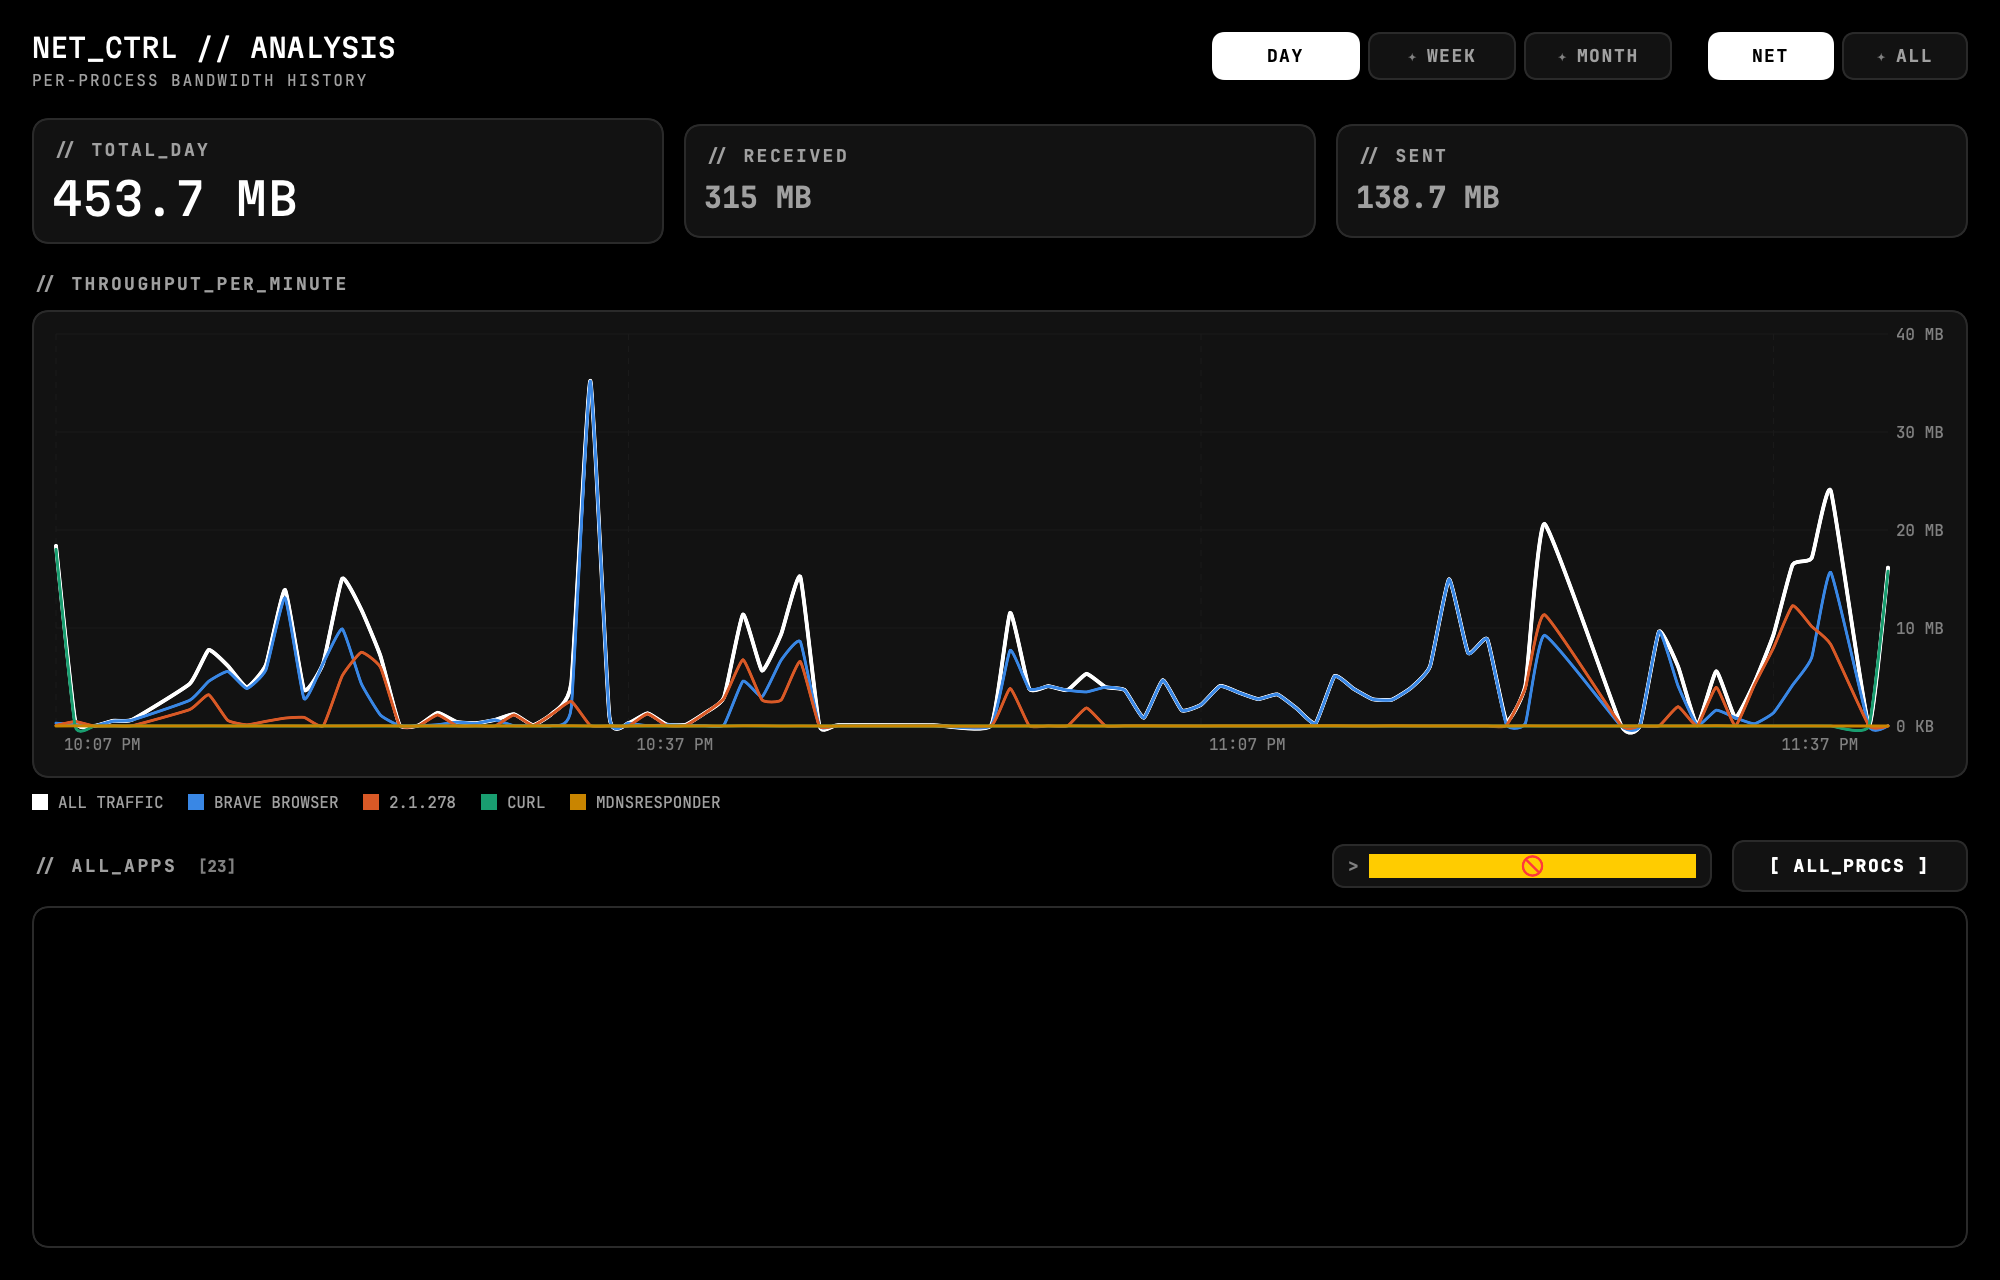
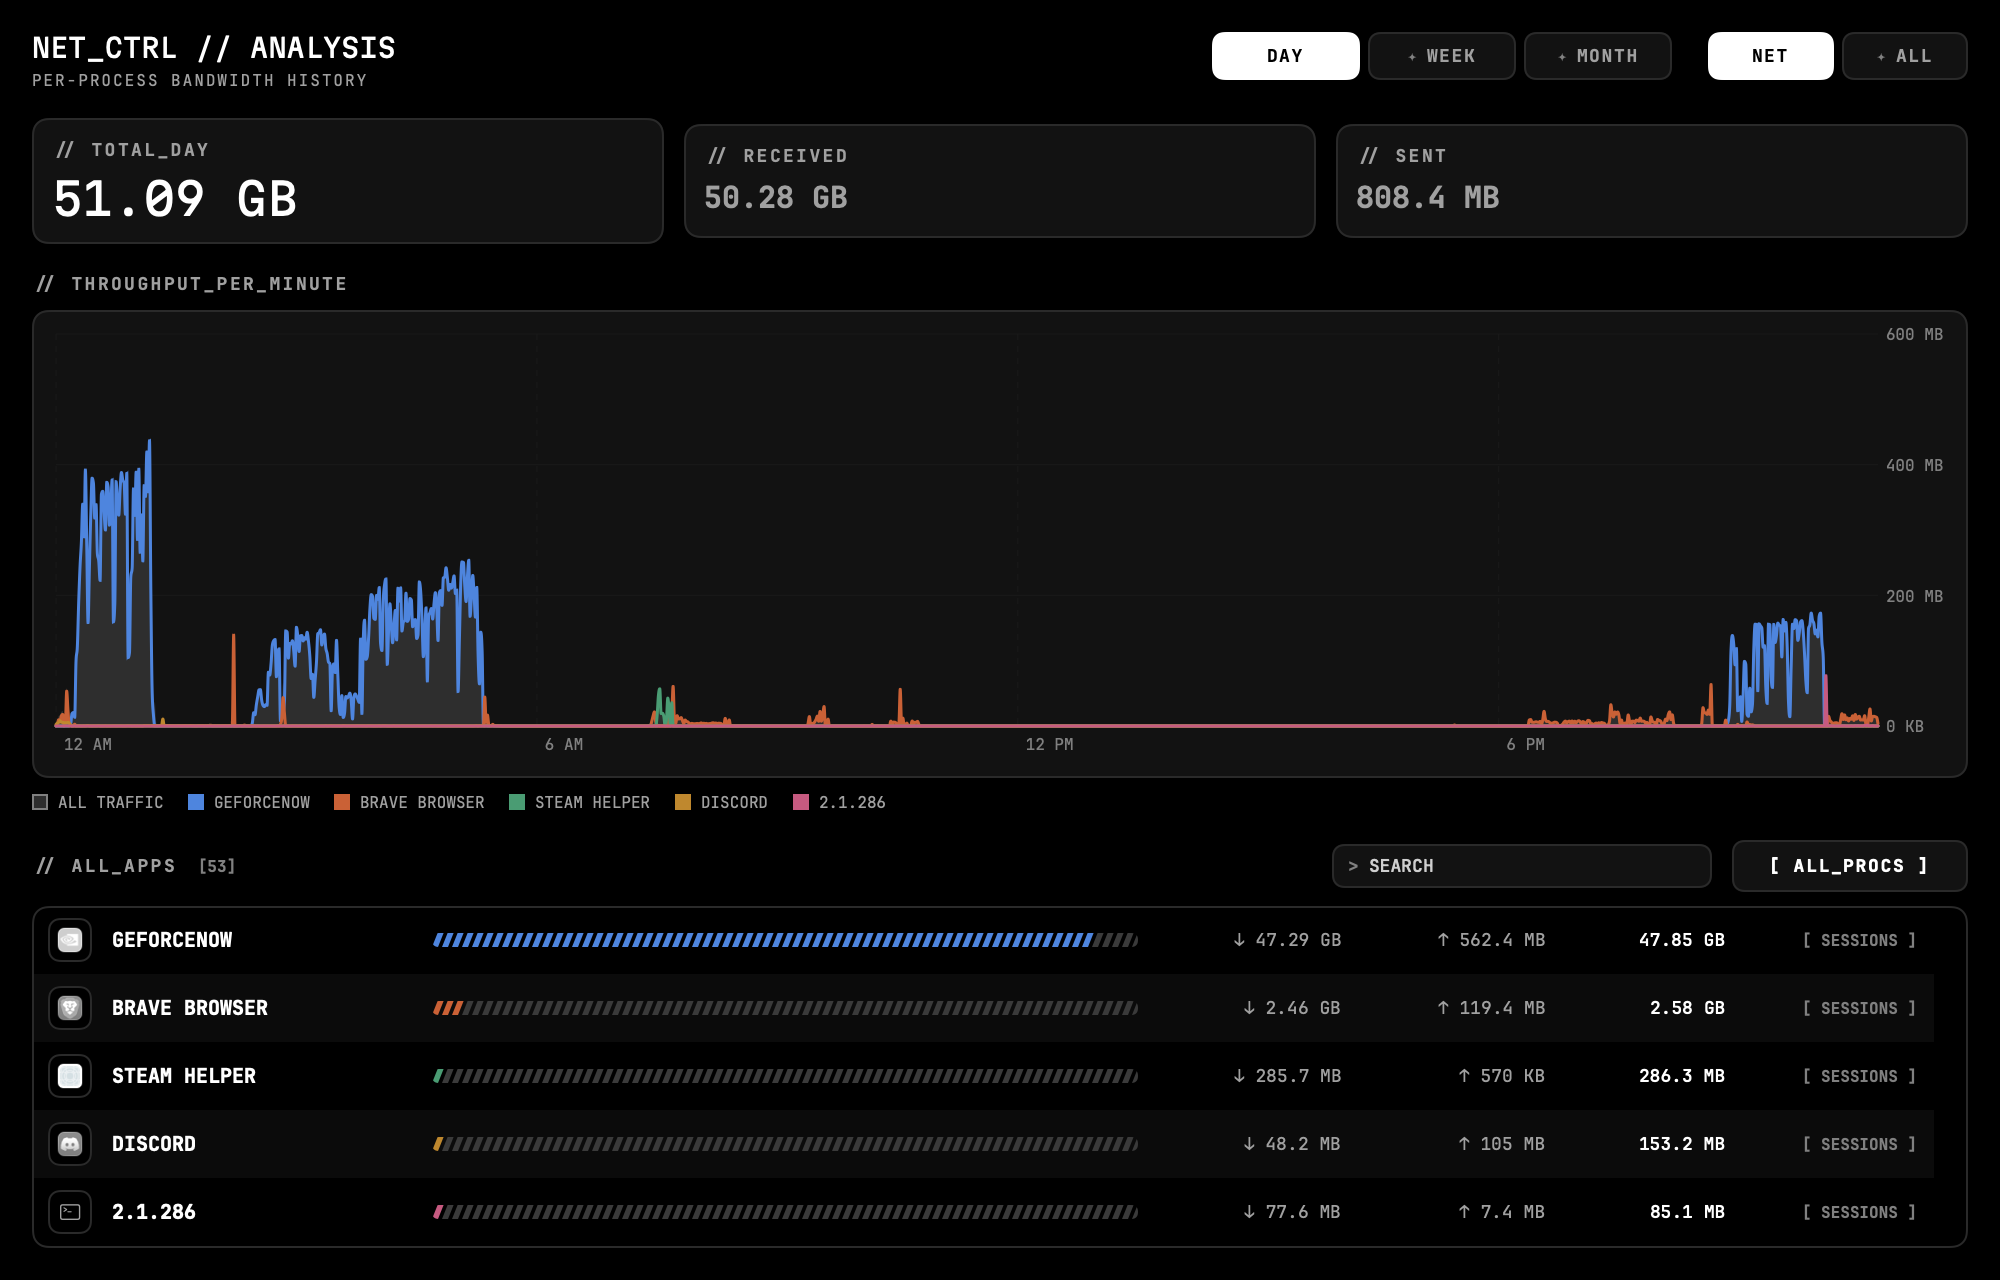
docs: document sessions and Mbps, refresh screenshots

diff --git a/README.md b/README.md
@@ -28,8 +28,10 @@ between internet-only and all traffic (which includes loopback and local connect
 
 - **Attributes traffic to apps**, not just interfaces. Helper processes roll up under
   their parent, so all of Chrome's renderers count as Chrome.
-- **Keeps history** — minute resolution for a week, hourly and daily for over a year, in
-  a local SQLite file.
+- **Breaks usage into sessions** — how much one evening of cloud gaming or one long
+  download actually used, not just a daily total.
+- **Keeps history** — minute resolution for a week, hourly and daily for over a year,
+  and every finished session indefinitely, in a local SQLite file.
 - **Runs light.** ~1% CPU, ~70 MB, no background daemon, no kernel extension.
 - **Stays local.** Nothing leaves the machine. No network calls, no telemetry, no account.
 
@@ -37,15 +39,32 @@ between internet-only and all traffic (which includes loopback and local connect
 <img src="docs/detail.png" width="880" alt="Detail window">
 </div>
 
-The detail window charts total throughput against the top apps over the selected period,
-and lists every process that moved a byte.
+The detail window charts the top apps over the selected period against a shaded backdrop
+of all traffic, and lists every process that moved a byte.
+
+## Sessions
+
+<div align="center">
+<img src="docs/sessions.png" width="640" alt="Sessions for one app">
+</div>
+
+Click any app — in the dropdown or the detail list — to see its sessions: each stretch of
+continuous use, with when it started and ended, how long it ran, and what it used. Pick
+one for its average and peak speed and a minute-by-minute chart of how hard it pulled.
+
+A session ends after five minutes without meaningful traffic, so a launcher's background
+trickle doesn't glue two evenings together. Sessions are worked out from the history
+already recorded for every app, so there's nothing to set up and no per-app tracking to
+switch on, and finished ones are saved so they outlive the week of minute data they
+come from. Sessions count internet traffic only.
 
 <div align="center">
 <img src="docs/config.png" width="300" alt="Config panel">
 </div>
 
 Filters keep the list useful: hide system daemons, set a minimum traffic threshold, or
-search by name. Filters never change the totals — hiding `mDNSResponder` shouldn't make
+search by name. Speeds can show in Mbps, the unit ISPs and streaming apps quote, instead
+of MB/s. Filters never change the totals — hiding `mDNSResponder` shouldn't make
 your machine look like it used less than it did, so the headline figures stay honest and
 the list header reads `[4/22]`.
 
